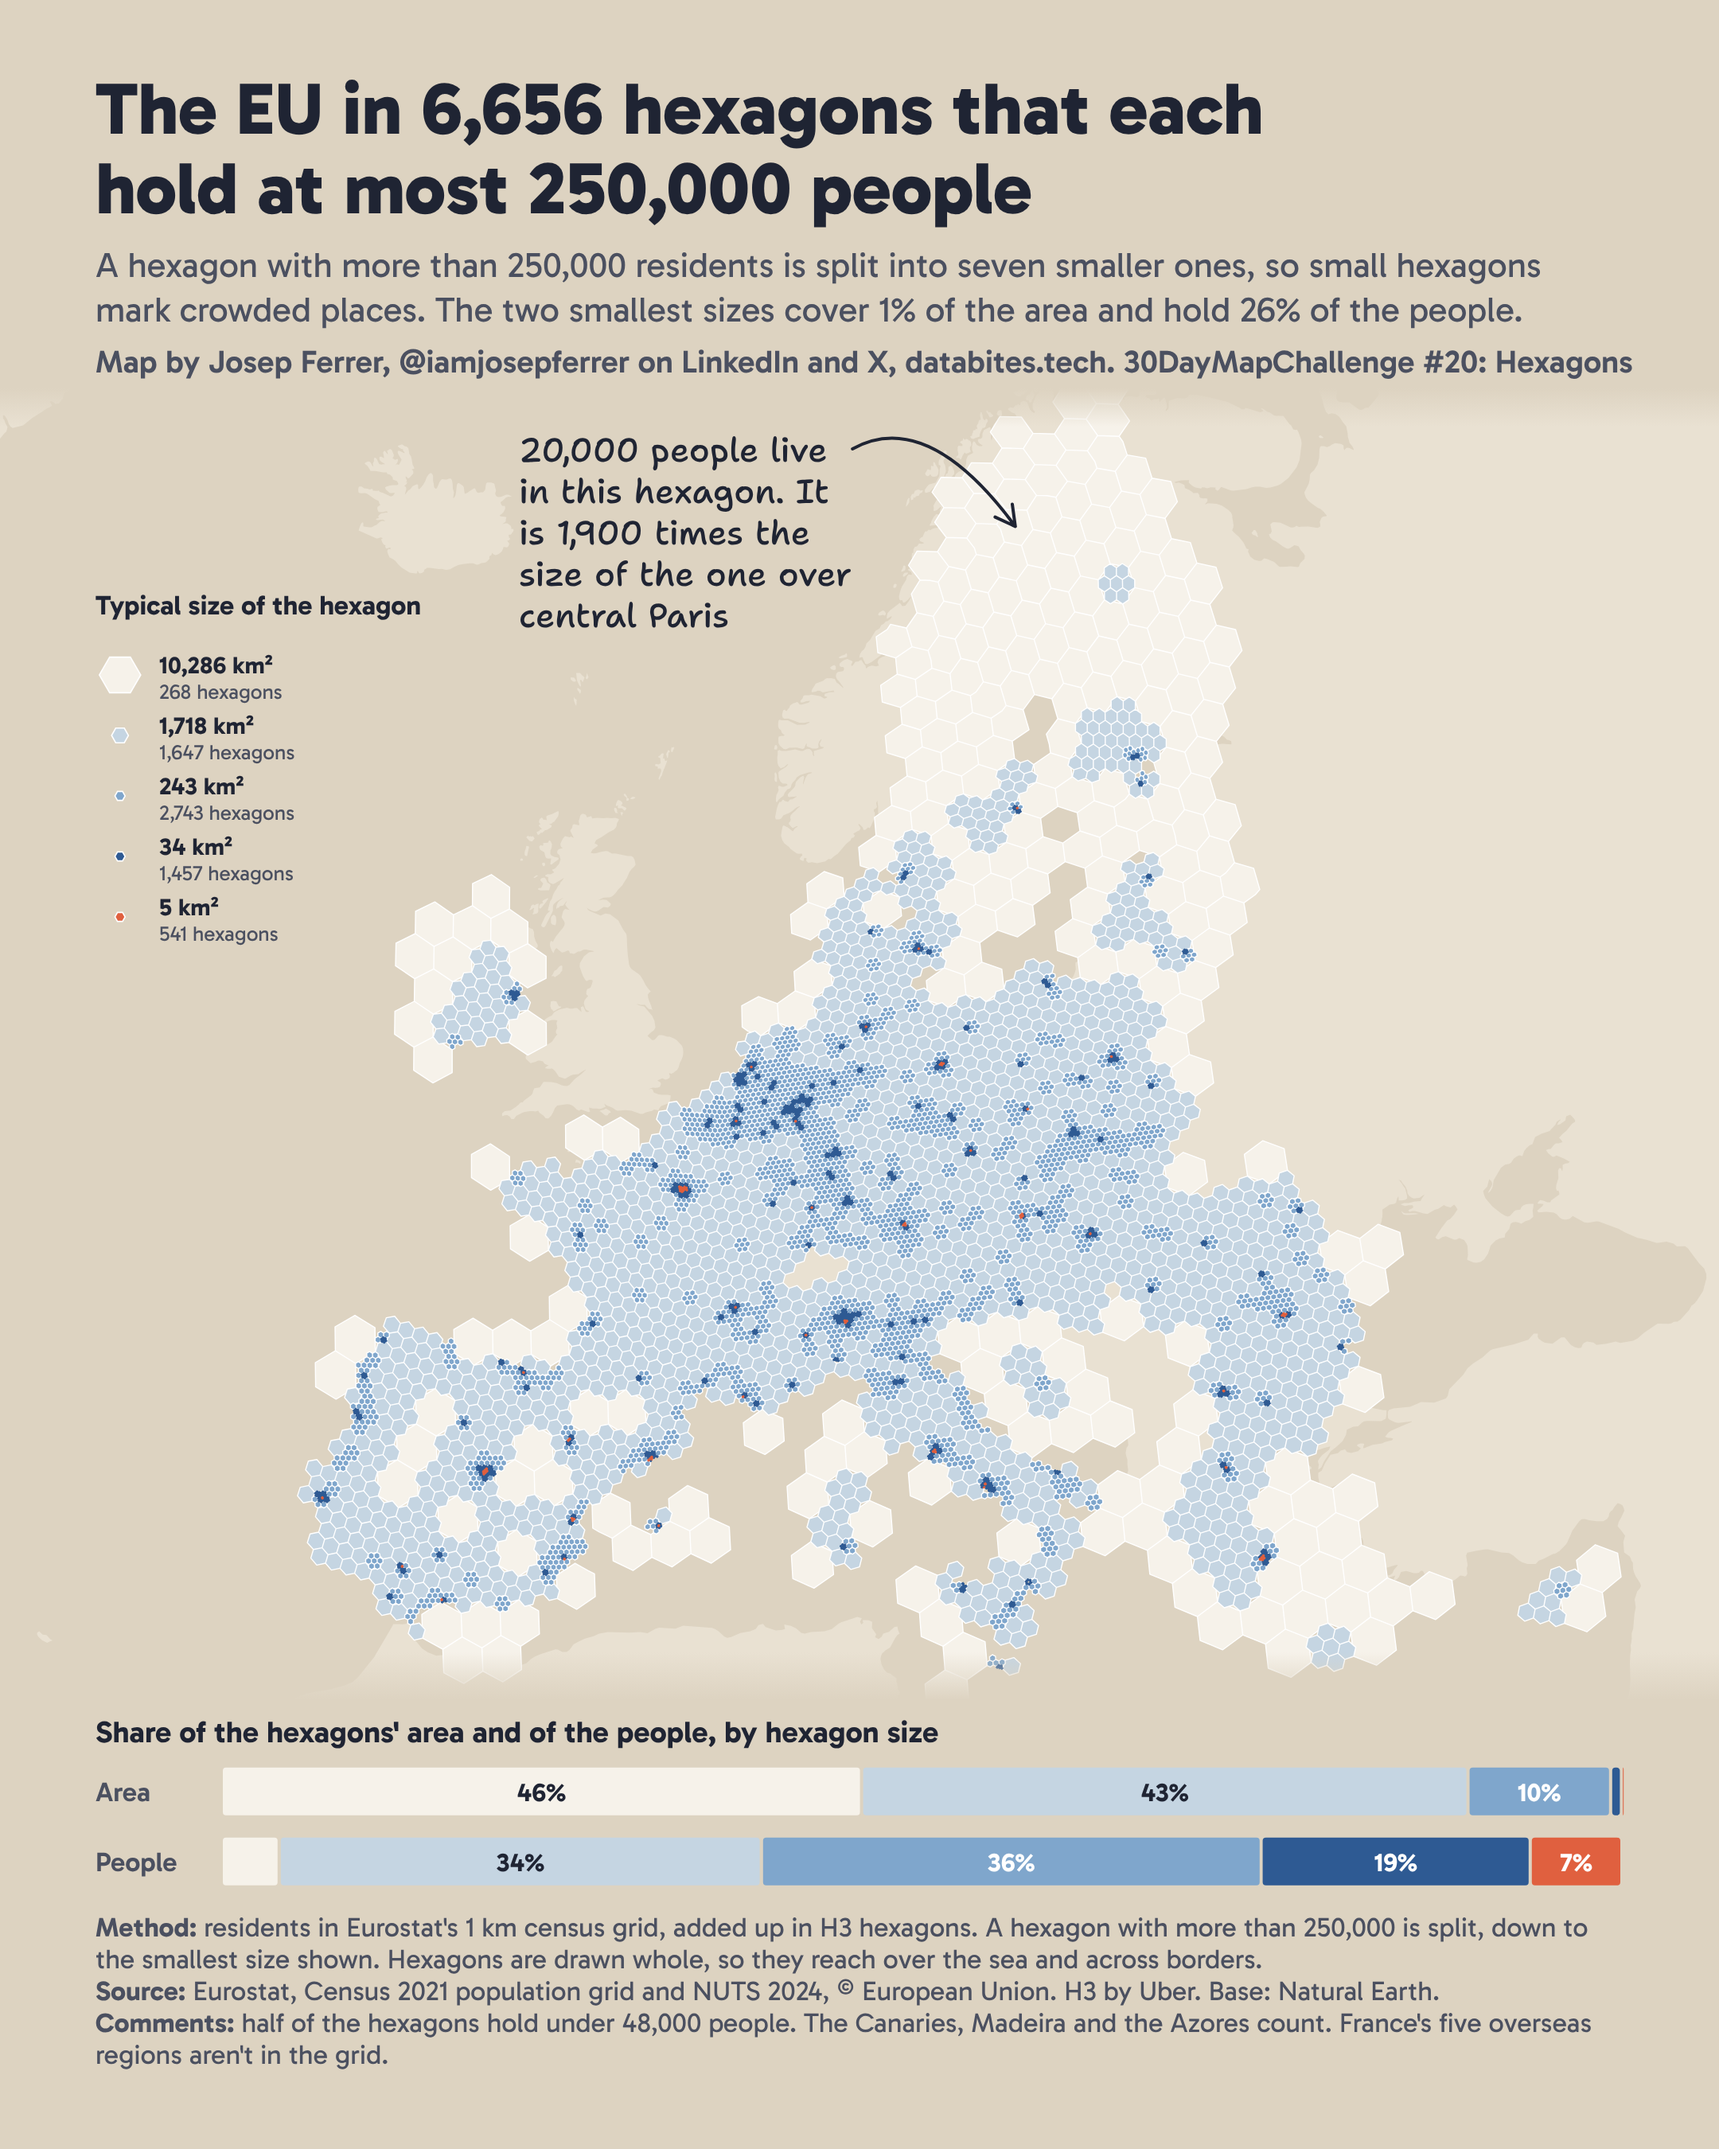
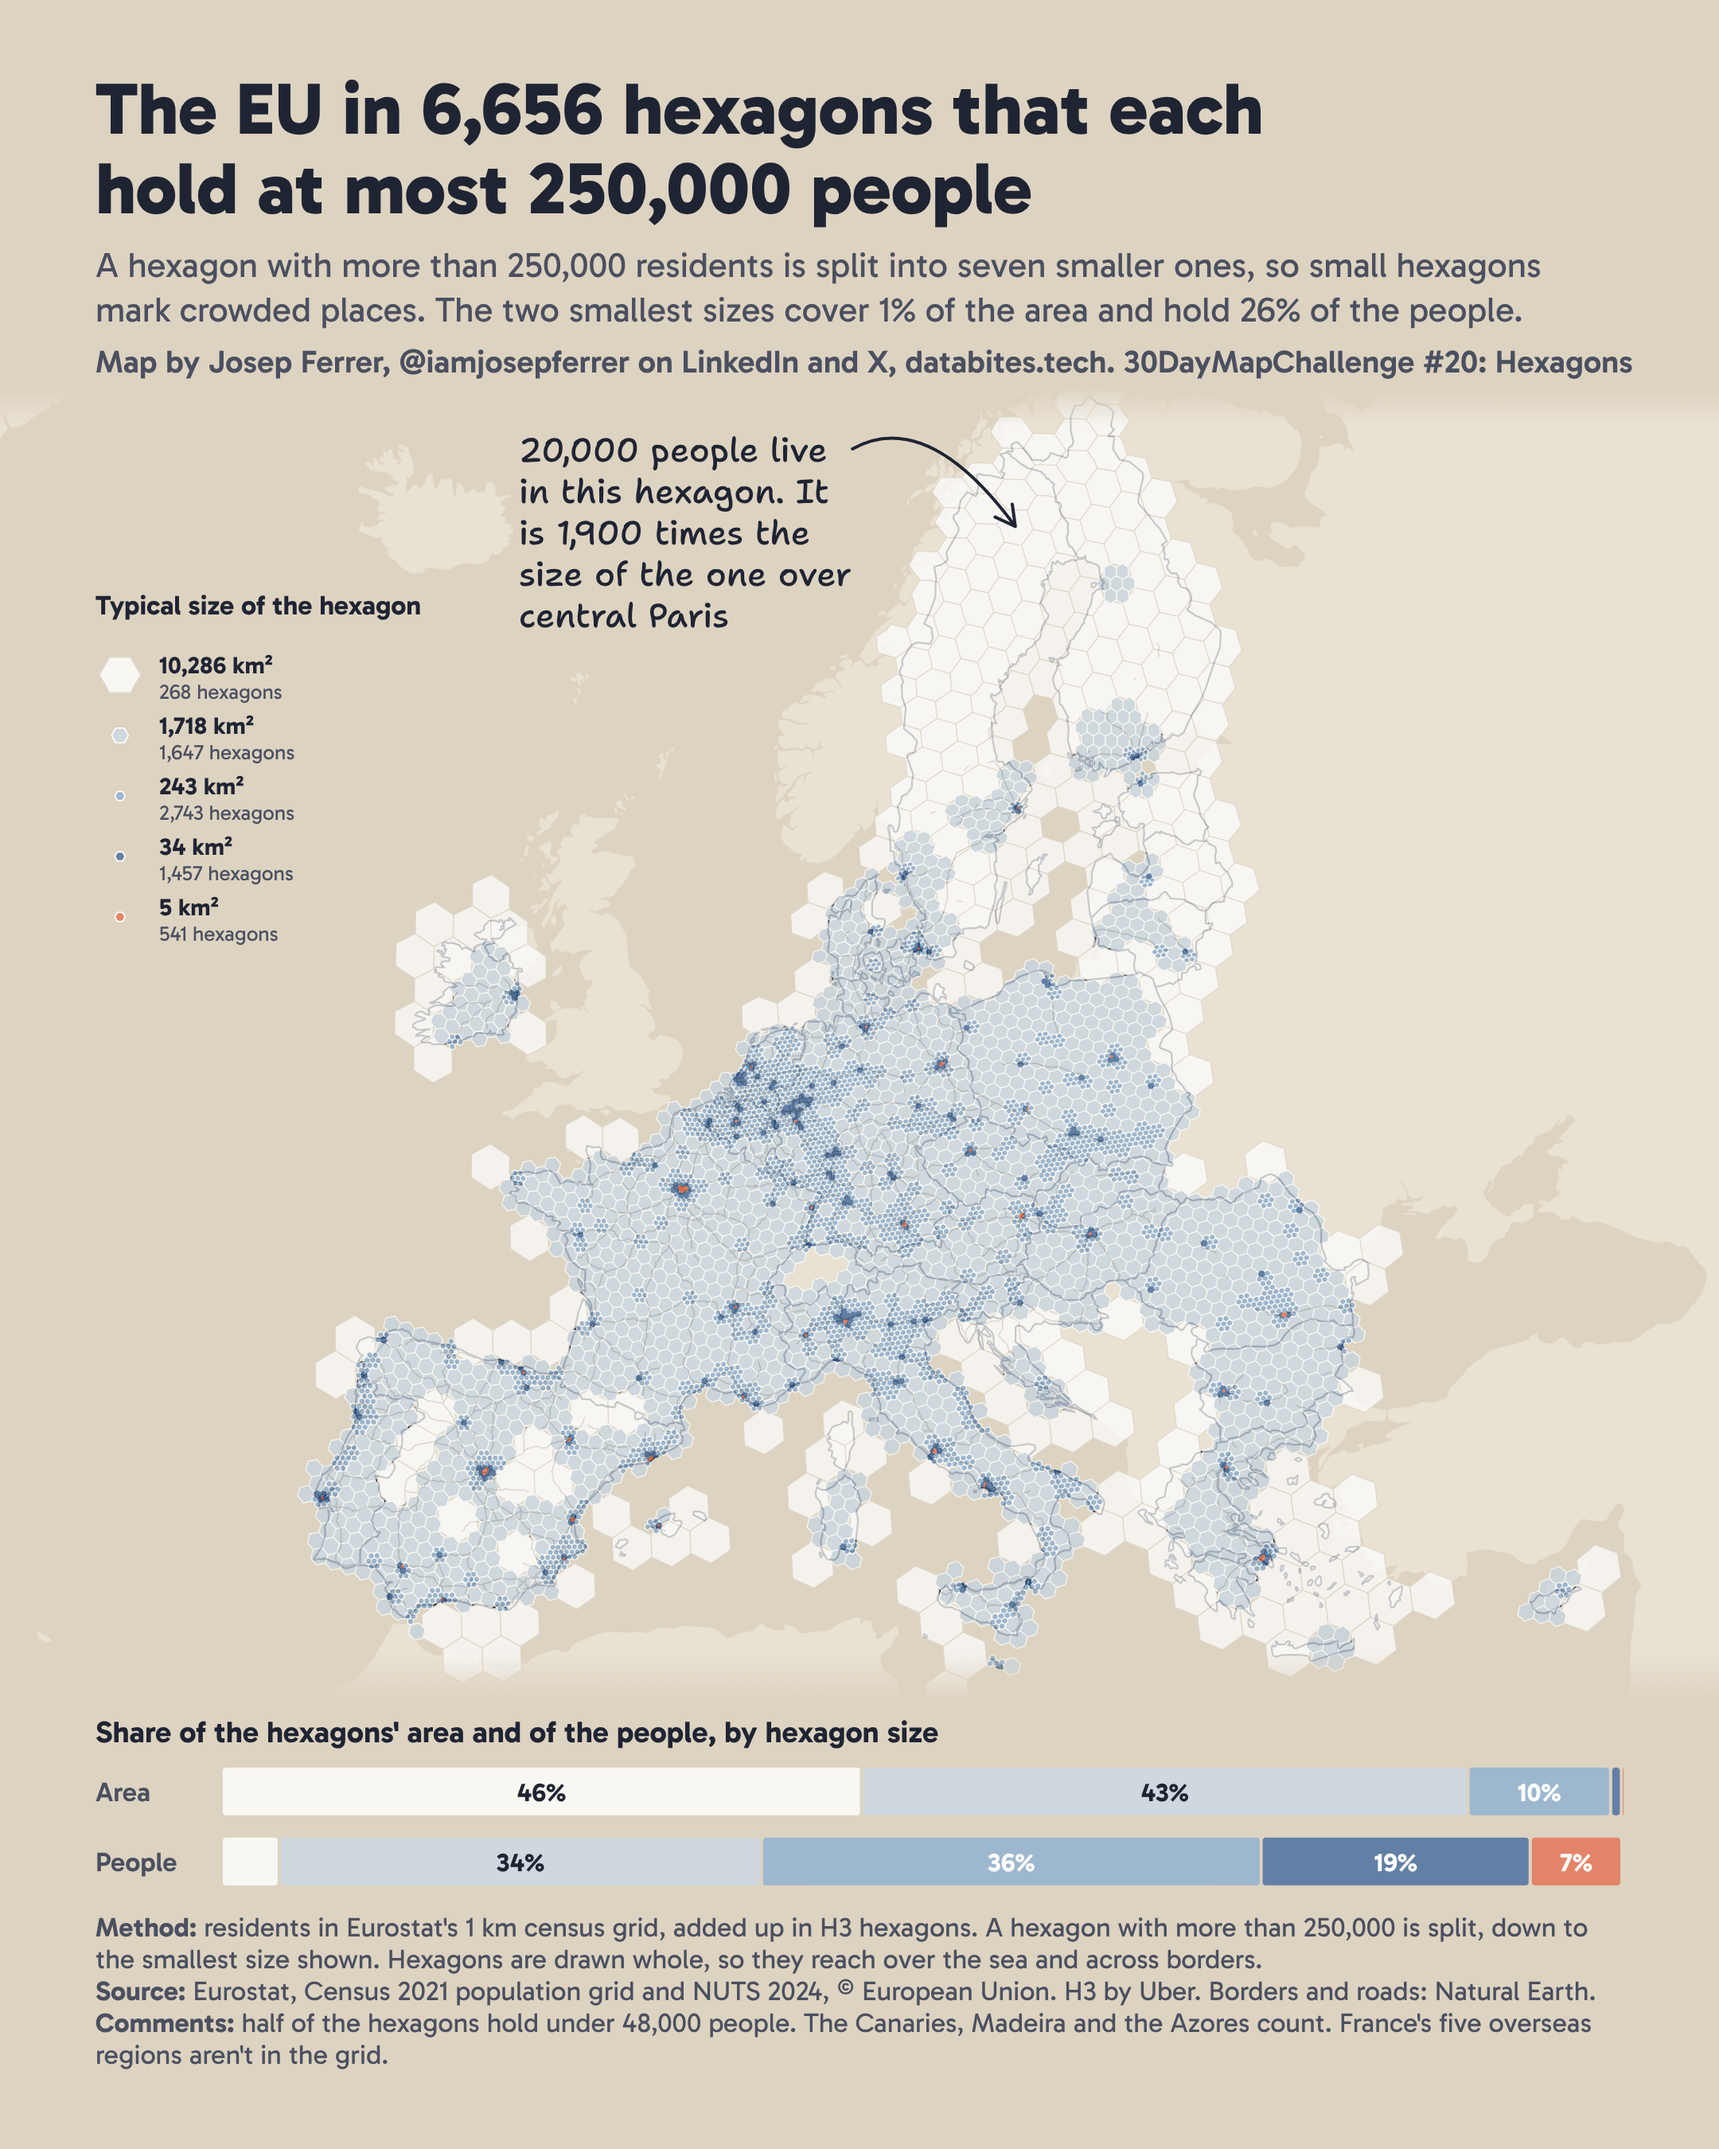
Day 20: see-through hexagons over borders and major highways

diff --git a/2026/day20_hexagons/day20_hexagons.py b/2026/day20_hexagons/day20_hexagons.py
@@ -29,10 +29,22 @@ from style import C, DATA_DIR, Frame, _download, byline, countries, fade_defs, f
 GRID_URL = "https://gisco-services.ec.europa.eu/census/2021/Eurostat_Census-GRID_2021_V2.2.zip"  # 590 MB
 GRID_TIFF = "ESTAT_OBS-VALUE-T_2021_V2.tiff"  # total residents in each 1 km cell
 NUTS_URL = "https://gisco-services.ec.europa.eu/distribution/v2/nuts/geojson/NUTS_RG_01M_2024_3035_LEVL_2.geojson"
+ROADS_URL = "https://naciscdn.org/naturalearth/10m/cultural/ne_10m_roads.zip"  # 9 MB
 EU = "AT BE BG CY CZ DE DK EE EL ES FI FR HR HU IE IT LT LU LV MT NL PL PT RO SE SI SK".split()
 LIMIT = 250_000  # a hexagon with more residents than this is split
 SIZES = [3, 4, 5, 6, 7]  # H3 resolutions, from the biggest hexagons to the smallest
-COLOURS = {3: "#F6F2EA", 4: "#C5D5E2", 5: "#7FA6CC", 6: "#2E5A93", 7: "#E0603F"}  # the smallest size in an accent colour
+COLOURS = {3: "#FFFFFF", 4: "#C5D5E2", 5: "#7FA6CC", 6: "#2E5A93", 7: "#E0603F"}  # the smallest size in an accent colour
+EDGE = "#DDD7CB"  # the biggest hexagons are white, so they get a light grey outline to tell one from the next
+SEE_THROUGH = 0.72  # how solid the hexagons are, so borders and roads show through them
+
+
+def blend(colour, under, share=SEE_THROUGH):
+    """The colour a see-through hexagon ends up with over the land, for the legend and the bars."""
+    mix = [round(int(colour[i:i + 2], 16) * share + int(under[i:i + 2], 16) * (1 - share)) for i in (1, 3, 5)]
+    return "#" + "".join(f"{v:02X}" for v in mix)
+
+
+SHOWN = {size: blend(colour, C["quiet_land"]) for size, colour in COLOURS.items()}
 
 # 1. Data: residents per 1 km cell, kept where the cell is in an EU country
 tiff = DATA_DIR / GRID_TIFF
@@ -77,9 +89,29 @@ print(f"{len(hexes):,} hexagons, {hexes.people.sum() / 1e6:.1f}M residents, medi
 MAP_TOP = 244
 frame = Frame(1680000, 6920000, 1330000, 5330000, 0, 1080, MAP_TOP)
 view = frame.box().buffer(150000).intersection(shapely.box(2500000, 0, 9e6, 9e6))  # Madeira and the Canaries fall outside
-land = countries().to_crs(3035).geometry.buffer(0).intersection(frame.box()).union_all()
+world = countries().to_crs(3035)
+world["geometry"] = world.geometry.buffer(0).intersection(frame.box())
+world = world[~world.is_empty]
+land = world.union_all()
+EU_NAMES = ["Austria", "Belgium", "Bulgaria", "Cyprus", "Czechia", "Germany", "Denmark", "Estonia", "Greece", "Spain", "Finland", "France",
+            "Croatia", "Hungary", "Ireland", "Italy", "Lithuania", "Luxembourg", "Latvia", "Malta", "Netherlands", "Poland", "Portugal",
+            "Romania", "Sweden", "Slovenia", "Slovakia"]
+borders = world[world.ADMIN.isin(EU_NAMES)].copy()
+assert len(borders) == 27
+borders["geometry"] = borders.geometry.intersection(shapely.box(2500000, 0, 9e6, 9e6))  # without Madeira and the Canaries, at the map's left edge
+# Below the hexagons: land, the borders of EU countries and the major highways (Natural Earth)
+roads = gpd.read_file(_download(ROADS_URL, DATA_DIR / "ne_10m_roads.zip"), bbox=(-12, 33, 36, 72))
+roads = roads[roads["type"] == "Major Highway"].to_crs(3035)
+roads = roads.geometry.intersection(borders.union_all()).simplify(1500)
+roads = roads[~roads.is_empty]
+line_path = lambda geoms: "".join("M" + " L".join(f"{px:.1f} {py:.1f}" for px, py in (frame.xy(*c) for c in part.coords))
+                                  for g in geoms for part in getattr(g, "geoms", [g]) if part.geom_type == "LineString")
 svg = [f'<clipPath id="map"><rect x="0" y="{MAP_TOP}" width="1080" height="{frame.ph:.0f}"/></clipPath>',
-       f'<g clip-path="url(#map)"><path d="{geom_path(land, frame)}" fill="{C["quiet_land"]}"/>']
+       f'<g clip-path="url(#map)"><path d="{geom_path(land, frame)}" fill="{C["quiet_land"]}"/>',
+       f'<path d="{line_path(roads)}" fill="none" stroke="#68502F" stroke-opacity=".75" stroke-width=".8" stroke-linejoin="round" stroke-linecap="round"/>',
+       f'<path d="{"".join(geom_path(g, frame) for g in borders.geometry.simplify(1500))}" fill="none" stroke="{C["ink"]}" stroke-opacity=".9" '
+       f'stroke-width="1.1" stroke-linejoin="round"/>',
+       f'<g opacity="{SEE_THROUGH}">']  # the hexagons are painted solid and made see-through together, so overlaps don't darken
 to3035 = Transformer.from_crs(4326, 3035, always_xy=True)
 
 
@@ -94,8 +126,8 @@ shown = hexes[[view.contains(s) for s in hexes["shape"]]]
 for size in SIZES:
     d = "".join("M" + " L".join(f"{px:.1f} {py:.1f}" for px, py in (frame.xy(*c) for c in s.exterior.coords[:-1])) + "Z"
                 for s in shown[shown["size"] == size]["shape"])
-    svg.append(f'<path d="{d}" fill="{COLOURS[size]}" stroke="{"#FFFFFF" if size < 6 else COLOURS[size]}" stroke-width="{0.7 if size < 6 else 0.5}" stroke-linejoin="round"/>')
-svg += [fade_defs(), f'<rect x="0" y="{MAP_TOP}" width="1080" height="24" fill="url(#fade-top)"/>',
+    svg.append(f'<path d="{d}" fill="{COLOURS[size]}" stroke="{EDGE if size == 3 else "#FFFFFF" if size < 6 else COLOURS[size]}" stroke-width="{0.7 if size < 6 else 0.5}" stroke-linejoin="round"/>')
+svg += ["</g>", fade_defs(), f'<rect x="0" y="{MAP_TOP}" width="1080" height="24" fill="url(#fade-top)"/>',
         f'<rect x="0" y="{MAP_TOP + frame.ph - 30:.0f}" width="1080" height="30" fill="url(#fade-bottom)"/>', "</g>"]
 
 # Legend over the Atlantic: the five sizes, drawn at the map's scale where they are big enough to see
@@ -106,7 +138,7 @@ for i, size in enumerate(SIZES):
     r = max(3.2, np.sqrt(by_size.typical[size] * 1e6 * 2 / (3 * np.sqrt(3))) * frame.k)  # corner radius of a regular hexagon
     r = min(r, 15)
     corners = " ".join(f"{LX + 15.4 + r * np.cos(np.pi / 3 * k):.1f},{yy + r * np.sin(np.pi / 3 * k):.1f}" for k in range(6))
-    svg.append(f'<polygon points="{corners}" fill="{COLOURS[size]}" stroke="#FFFFFF" stroke-width=".8"/>')
+    svg.append(f'<polygon points="{corners}" fill="{SHOWN[size]}" stroke="{blend(EDGE, C["quiet_land"]) if size == 3 else "#FFFFFF"}" stroke-width=".8"/>')
     area = by_size.typical[size]
     svg.append(text(LX + 40, yy - 1, f"{area:,.0f} km²" if area >= 10 else f"{area:.0f} km²", 15, 700))
     svg.append(text(LX + 40, yy + 15, f"{by_size['count'][size]:,} hexagons", 13, 400, C["ink2"]))
@@ -138,7 +170,7 @@ for j, (label, column) in enumerate((("Area", "area_share"), ("People", "people_
     svg.append(text(flush(label, 17, 600), by + 21, label, 17, 600, C["ink2"]))
     for size in SIZES:
         w = 880 * by_size[column][size]
-        svg.append(f'<rect x="{bx:.1f}" y="{by}" width="{max(w - 2, 0.5):.1f}" height="30" rx="2" fill="{COLOURS[size]}"/>')
+        svg.append(f'<rect x="{bx:.1f}" y="{by}" width="{max(w - 2, 0.5):.1f}" height="30" rx="2" fill="{SHOWN[size]}"/>')
         if w > 44:
             svg.append(text(bx + (w - 2) / 2, by + 21, f"{by_size[column][size]:.0%}", 16, 700, "#FFFFFF" if size >= 5 else C["ink"], "middle"))
         bx += w
@@ -153,7 +185,7 @@ for y, words, size, weight, colour in HEAD:  # every line starts with its first 
 svg.append(byline(234, "30DayMapChallenge #20: Hexagons").replace('x="60.0"', f'x="{flush("M", 20, 600):.1f}"'))
 svg += footer([
     ("Method:", f"residents in Eurostat's 1 km census grid, added up in H3 hexagons. A hexagon with more than {LIMIT:,} is split, down to the smallest size shown. Hexagons are drawn whole, so they reach over the sea and across borders."),
-    ("Source:", "Eurostat, Census 2021 population grid and NUTS 2024, © European Union. H3 by Uber. Base: Natural Earth."),
+    ("Source:", "Eurostat, Census 2021 population grid and NUTS 2024, © European Union. H3 by Uber. Borders and roads: Natural Earth."),
     ("Comments:", f"half of the hexagons hold under {round(hexes.people.median(), -3):,.0f} people. The Canaries, Madeira and the Azores count. France's five overseas regions aren't in the grid."),
 ], x=round(flush("M", 17, 700), 1), y=TOP + 122, width=960, size=17, line_height=20)
 save_png(page("".join(svg)), HERE / "day20_hexagons.png")

diff --git a/2026/README.md b/2026/README.md
@@ -868,7 +868,7 @@ Every hexagon is in [`hexagons.csv`](day20_hexagons/hexagons.csv), with its H3 c
 1. **Get the population:** Eurostat's 2021 census grid, which gives the residents of every 1 km cell. Cells inside an EU country are kept, 442 million people in all.
 2. **Put the cells in hexagons:** each cell goes to the smallest H3 hexagon (resolution 7) that its centre falls in.
 3. **Choose each hexagon's size:** from the biggest size (resolution 3) down, a hexagon is kept if it holds 250,000 people or fewer. Otherwise its people are passed down to its seven children.
-4. **Draw it:** every hexagon whole, coloured by its size, with the smallest in orange.
+4. **Draw it:** every hexagon whole, coloured by its size, with the smallest in orange. The hexagons are 72% solid, so the borders of EU countries and the major highways (Natural Earth) show through them.
 
 ### Limitations
 
